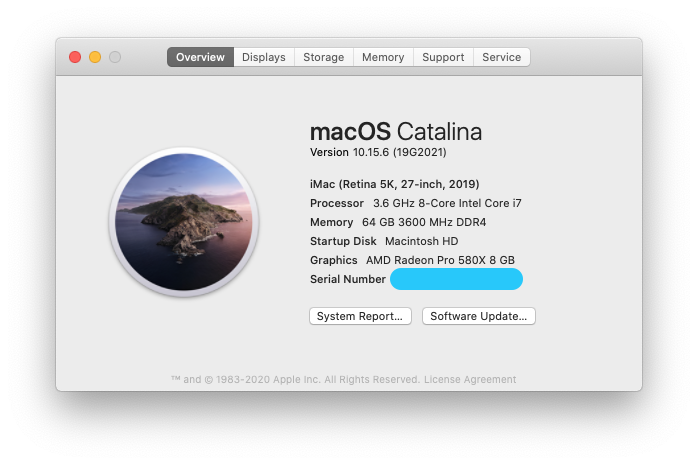
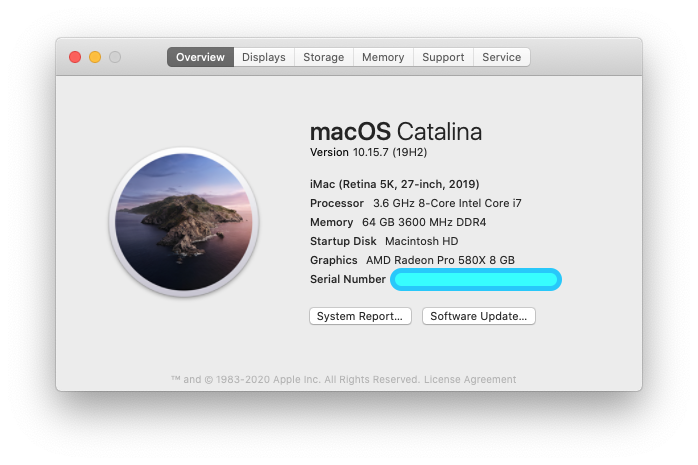
Verified working with macOS version 10.15.7 (19H2)

Changed region(s): [[0.5415, 0.572, 0.8123, 0.6323], [0.5415, 0.3011, 0.6318, 0.3312]]

diff --git a/README.md b/README.md
@@ -3,7 +3,7 @@
 
 ## Gigabyte Z390M GAMING hackintosh w/ OpenCore
 
-Verified working with macOS version 10.15.6 (19G2021) Catalina and OpenCore 0.6.1
+Verified working with macOS version 10.15.7 (19H2) Catalina and OpenCore 0.6.1
 
 ![System](https://github.com/BenjaminX/Hackintosh-Gigabyte-Z390M-GAMING/blob/master/Tips/About-System.png?raw=true)
 
@@ -14,7 +14,8 @@ Verified working with macOS version 10.15.6 (19G2021) Catalina and OpenCore 0.6.
 
 
 ## Updates
-2020-09-09 / Version 1.6.3 Upgrade to OpenCore 0.6.1 and others Kexts.(Lilu/AppleALC/WhateverGreen/etc)
+2020-09-09 / Version 1.6.3
+Upgrade to OpenCore 0.6.1 and others Kexts.(Lilu/AppleALC/WhateverGreen/etc)
 
 2020-08-18 / Version 1.6.2
 Fixed GFX frequency to 1.2Ghz 
@@ -86,17 +87,17 @@ Components | Recommended SKU | Comments
 **CPU** | Intel i7-9700K | 8th/9th-gen both fine (9900K/9700/8700/etc)
 **Motherboard** | Gigabyte Z390M Gaming mATX | Not interchangeable with other SKUs
 **WiFi Adapter** | BCM943602CDP (4 antennas) | Bluetooth 4.2 (Including NGFF to M.2 Adapter)
-**Graphics Card** | Dataland RX 580 8G X-Serial God of War **2304SP** | **DO NOT USE 2048SP VERSION** / Recommend upgrade to Sapphire RX5700XT/RX5500
+**Graphics Card** | Dataland RX 580 8G X-Serial God of War **2304SP** | **DO NOT USE 2048SP VERSION**
 Thunderbolt Card | Gigabyte GC-TITAN RIDGE | Thunderbolt 3 Certified (Need hard-flash)
-SSD | Samsung 960 PRO M.2 NVMe 512G | MZ-V6P512BW, Recommend upgrade to Samsung 970 Pro 1TB
+SSD | Samsung 960 PRO M.2 NVMe 512G | Recommend upgrade to Samsung 970 Pro 1TB
 RAM | Corsair Vengeance LPX 64GB (2x32GB) DDR4 X.M.P | Recommend 3200MHz / Better 3600MHz 4x32GB = 128GB
 PSU | Seasonic Focus Plus 650FX | Recommend upgrade to GX850 / GX1000
 PC Case | Jonsbo RM2 ATX | Silver
 CPU Cooler | Jonsbo TW2-240 | Version 601
 SSD Cooler | CRYORIG Frostbit (M.2) | 
 Cooling Fan | Noctua NF-F12 PWM | 12cm
-Monitors | Cinema Display 24 & AOC U2790PQU IPS 4K | ACD 24 including Camera / Mic / USB hub / Speaker
-Keyboard & Mouse | Magic Keyboard & Magic Mouse 2 & Magic Trackpad 2 | Prefer wireless
+Monitors | Cinema Display 24 & AOC U2790PQU IPS 4K | ACD 24 including Camera / Mic / Speaker / USB hub
+Keyboard & Mouse | Magic Keyboard & Magic Mouse 2 & Magic Trackpad 2 | Prefer to wireless devices
 Hard Disk | Seagate BarraCuda 2TB 2.5 Inch | For backup / Time Machine
 
 **IMPORTANT: Core components (Motherboard / Graphics Card / WiFi Adapter) are CRUCIAL and you HAVE TO follow the instructions above.**
@@ -118,6 +119,16 @@ Based on F9g version.
 * Tweaker
 	- Advanced CPU Settings
 		- VT-d → **Disabled**
+		- Intel(R) Speed Shift Technology → **Enabled**
+		- Energy Efficient Turbo  → **Enabled**
+		- Intel(R) Turbo Boost Technology → **Enabled**
+		- C-States Control
+			- CPU Enhanced Halt(C1E) → **Enabled**
+			- C3 State Support → **Enabled**
+			- C6/C7 State Support → **Enabled**
+			- C8 State Support → **Enabled**
+			- C10 State Support → **Enabled**
+			- Package C State limit → **Auto**
 	- Extreme Memory Profile(X.M.P.) → **Profile 1**
 	- Advanced Memory Settings
 		- Memory Boot Mode → **Enable Fast Boot**
